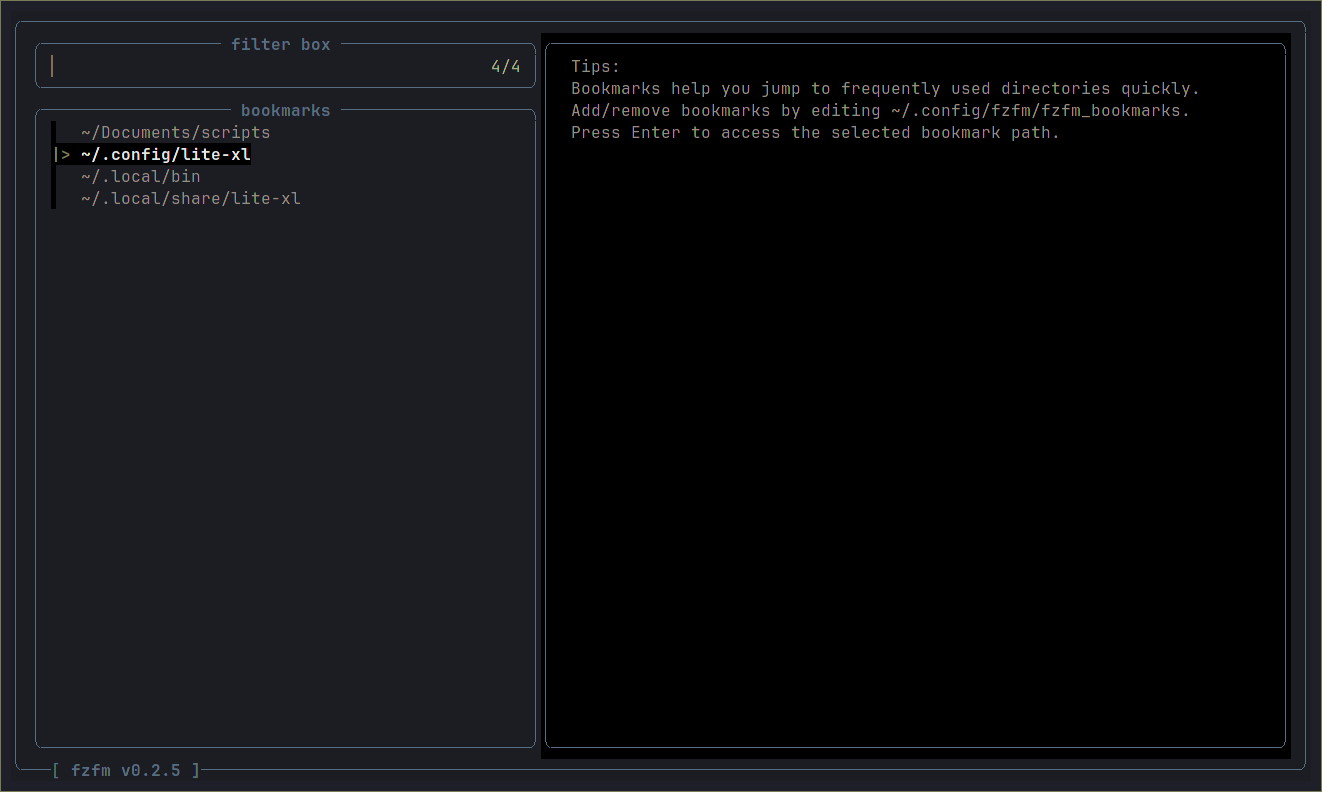
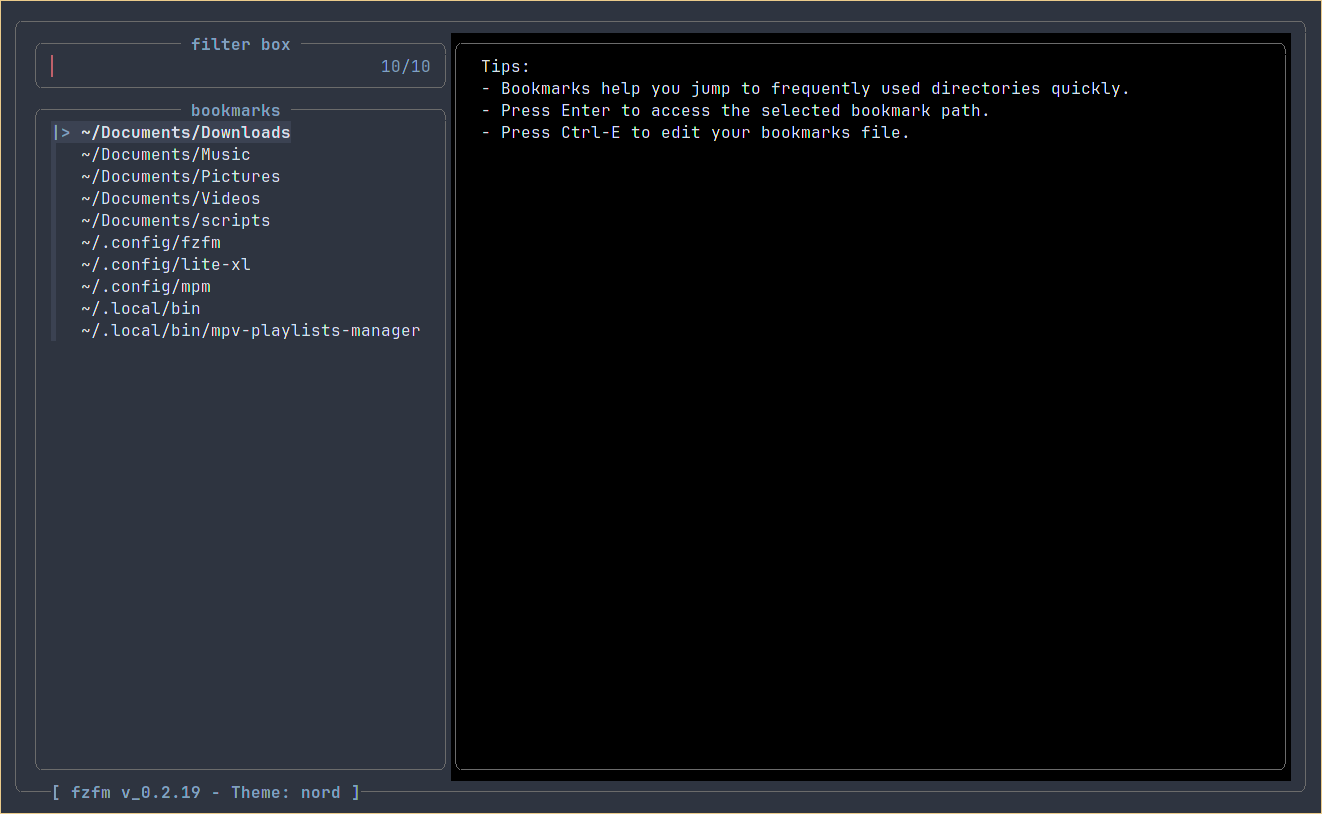
Updated screenshots

diff --git a/README.md b/README.md
@@ -12,7 +12,7 @@ A simple customizable fzf file manager for Linux with basic options.
   </tr>
   <tr>
     <td width="50%">
-      <img src="https://github.com/archusXIV/fzfm/blob/main/screenshots/fzfm_v0.2.11.png" />
+      <img src="https://github.com/archusXIV/fzfm/blob/main/screenshots/fzfm_v0.2.19.png" />
     </td>
     <td width="50%">
       <img src="https://github.com/archusXIV/fzfm/blob/main/screenshots/fzfm_image.png" />
